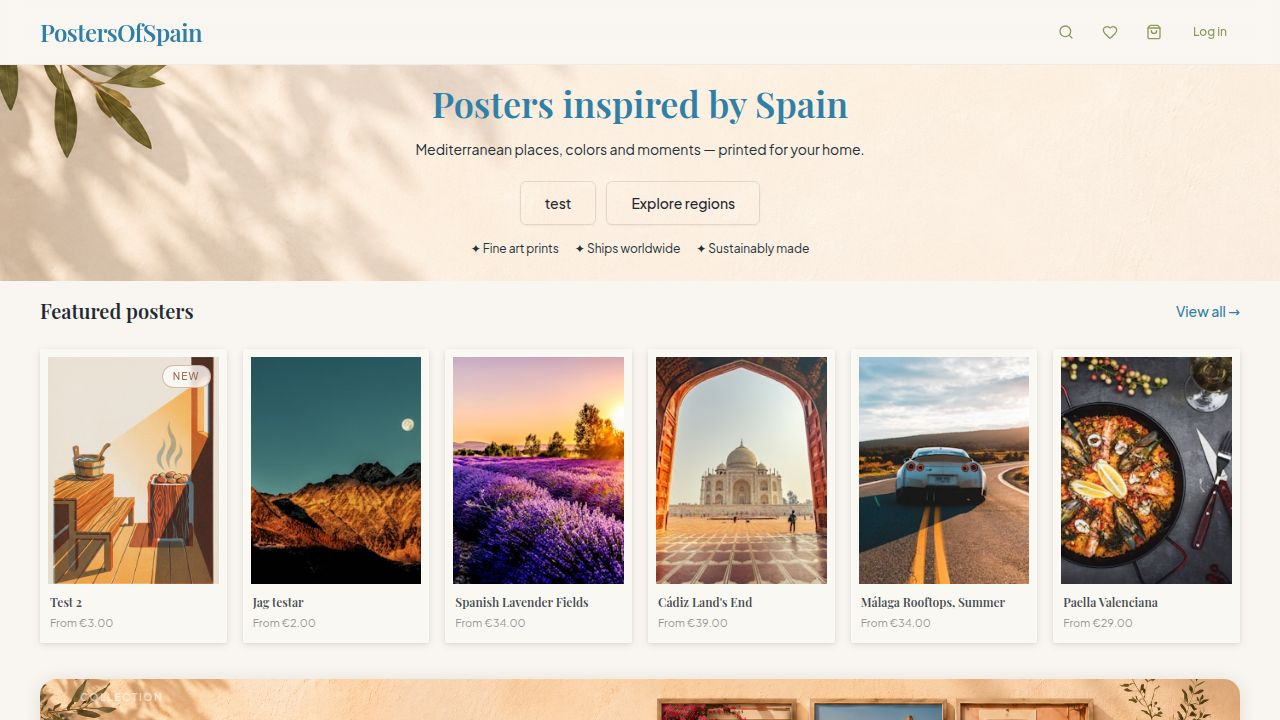
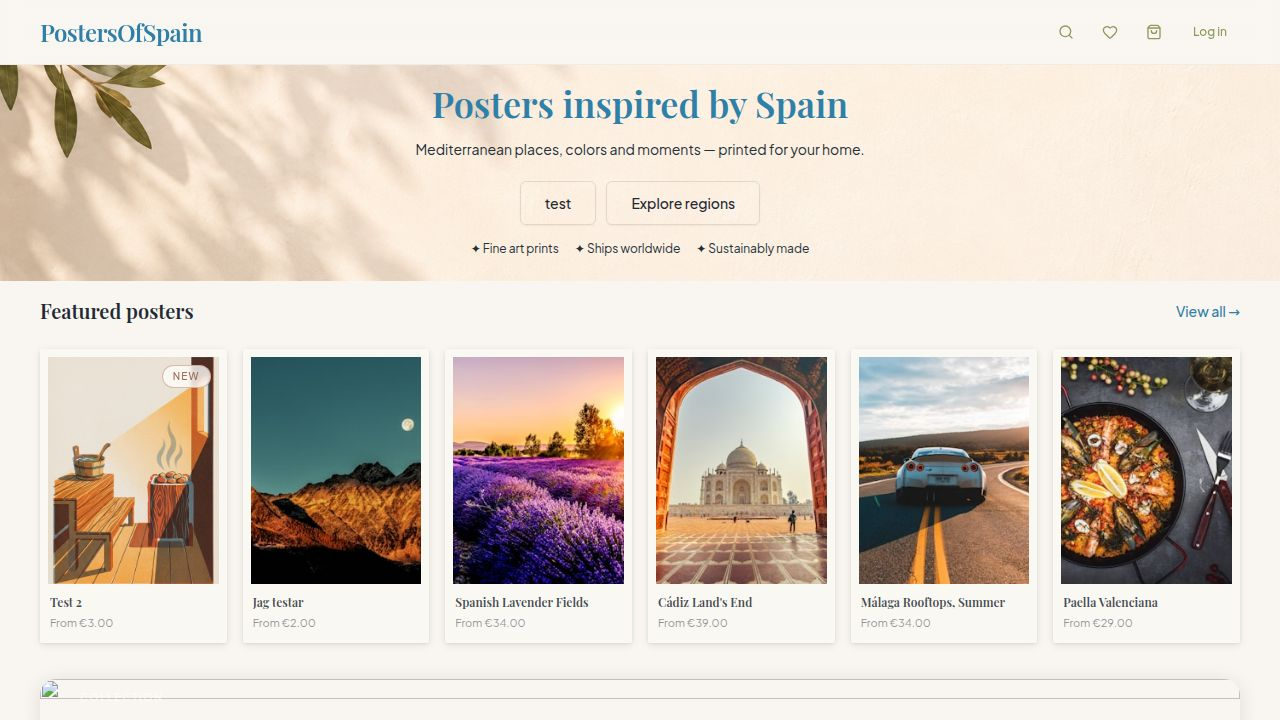
Task #17: Live homepage preview in the admin editor
## What was done
Added a "Preview" button to the AdminHomepageEditor toolbar that opens the
homepage in a new tab reflecting the current *unsaved* visual config.

## Implementation

### API Server (`artifacts/api-server/src/routes/stores.ts`)
- Added in-memory preview store (`Map<token, { config, expiresAt }>`) with
  30-minute TTL and lazy purge on each request.
- `POST /api/stores/:storeKey/homepage-visual/preview` (admin auth required):
  validates config, generates a 36-char hex token via crypto.getRandomValues,
  stores `{ ...config, _storeKey }` in memory, returns `{ token }`.
- `GET /api/stores/homepage-visual/preview/:token` (public, no auth):
  returns stored config or 404 if expired/not found.
  Placed before `:storeKey` wildcard routes to avoid param capture.

### StorefrontContext (`artifacts/poster-store/src/context/StorefrontContext.tsx`)
- On init, reads `?preview=<token>` from window.location.search.
- Fetches preview config if token is present.
- Checks `_storeKey` in the returned preview payload. If it differs from the
  URL-resolved store (e.g. admin opened root `/` for a non-default store),
  re-fetches both static and DB config for the preview's correct store key,
  ensuring the right base theme/fonts/catalog are used.
- Strips `_storeKey` metadata before assigning as homepageVisualConfig.
- Falls back silently on network errors or expired tokens.

### AdminHomepageEditor (`artifacts/poster-store/src/pages/admin/AdminHomepageEditor.tsx`)
[…]

Changed region(s): [[0.0312, 0.9167, 0.9688, 1.0]]

diff --git a/artifacts/poster-store/src/context/StorefrontContext.tsx b/artifacts/poster-store/src/context/StorefrontContext.tsx
@@ -35,6 +35,16 @@ async function fetchDbStoreConfig(storeKey: string): Promise<StorefrontConfig | 
   }
 }
 
+async function fetchPreviewVisualConfig(token: string): Promise<Record<string, unknown> | null> {
+  try {
+    const res = await fetch(`/api/stores/homepage-visual/preview/${encodeURIComponent(token)}`);
+    if (!res.ok) return null;
+    return res.json();
+  } catch {
+    return null;
+  }
+}
+
 /**
  * Resolves the active storeKey and any route prefix from the current URL.
  *
@@ -99,6 +109,9 @@ export const StorefrontProvider = ({ children }: { children: ReactNode }) => {
 
       const hostname = typeof window !== 'undefined' ? window.location.hostname : '';
       const pathname = typeof window !== 'undefined' ? window.location.pathname : '/';
+      const searchParams = typeof window !== 'undefined'
+        ? new URLSearchParams(window.location.search)
+        : new URLSearchParams();
 
       const { storeKey, routePrefix } = resolveStore(stores, hostname, pathname);
 
@@ -111,13 +124,49 @@ export const StorefrontProvider = ({ children }: { children: ReactNode }) => {
 
       const dbConfig = await fetchDbStoreConfig(storeKey);
 
+      // If a preview token is present in the URL, overlay its visual config.
+      // The token payload includes _storeKey which was set by the admin when
+      // they POSTed the preview. If it doesn't match the URL-resolved store we
+      // re-fetch the correct store's config so the preview renders on the right
+      // base theme/catalog.
+      const previewToken = searchParams.get('preview');
+      let previewVisual: Record<string, unknown> | null = null;
+      let resolvedDbConfig = dbConfig;
+      let resolvedStaticFallback = staticFallback;
+
+      if (previewToken) {
+        previewVisual = await fetchPreviewVisualConfig(previewToken);
+
+        if (previewVisual) {
+          const previewStoreKey = typeof previewVisual._storeKey === 'string'
+            ? previewVisual._storeKey
+            : null;
+
+          if (previewStoreKey && previewStoreKey !== storeKey) {
+            // The preview belongs to a different store than what the URL resolved.
+            // Load that store's config so the correct base theme/fonts are used.
+            const { storefronts: allStorefronts } = await import('../config/storefronts');
+            resolvedStaticFallback = allStorefronts[previewStoreKey] ?? resolvedStaticFallback;
+            const overrideDbConfig = await fetchDbStoreConfig(previewStoreKey);
+            resolvedDbConfig = overrideDbConfig ?? resolvedDbConfig;
+          }
+        }
+      }
+
       if (!cancelled) {
-        if (dbConfig) {
-          // Merge: static config provides defaults for fields not stored in DB (e.g. shop),
-          // DB config takes precedence for everything it provides.
-          setStoreConfig({ ...staticFallback, ...dbConfig });
+        const base: StorefrontConfig = resolvedDbConfig
+          ? { ...resolvedStaticFallback, ...resolvedDbConfig }
+          : (resolvedStaticFallback ?? staticConfig);
+
+        if (previewVisual) {
+          // Strip the internal _storeKey metadata before applying as visual config
+          const { _storeKey: _ignored, ...visualConfig } = previewVisual;
+          setStoreConfig({
+            ...base,
+            homepageVisualConfig: visualConfig as StorefrontConfig['homepageVisualConfig'],
+          });
         } else {
-          if (staticFallback) setStoreConfig(staticFallback);
+          setStoreConfig(base);
         }
         setIsLoadingFromDb(false);
       }

diff --git a/artifacts/poster-store/src/pages/admin/AdminHomepageEditor.tsx b/artifacts/poster-store/src/pages/admin/AdminHomepageEditor.tsx
@@ -548,6 +548,47 @@ export default function AdminHomepageEditor() {
   const setHero = (patch: Partial<HeroVisualConfig>) =>
     setConfig(c => ({ ...c, hero: { ...c.hero, ...patch } }));
 
+  // ── Preview ───────────────────────────────────────────────────────────────
+
+  const [previewing, setPreviewing] = useState(false);
+
+  async function handlePreview() {
+    setPreviewing(true);
+    try {
+      const toPreview: HomepageVisualConfig = {
+        ...config,
+        sections: workingSections,
+        collectionBanners: workingBanners,
+        collectionBanner: undefined,
+      };
+      const res = await fetch(`/api/stores/${encodeURIComponent(adminStoreKey)}/homepage-visual/preview`, {
+        method: "POST",
+        headers: { "Content-Type": "application/json" },
+        credentials: "include",
+        body: JSON.stringify(toPreview),
+      });
+      if (!res.ok) {
+        const body = await res.json().catch(() => ({ error: res.statusText }));
+        throw new Error(typeof body.error === "string" ? body.error : "Preview failed");
+      }
+      const { token } = await res.json() as { token: string };
+      // Navigate to the store's public root so URL-based store resolution works.
+      // If the store has a route prefix (e.g. /sweden) use that; otherwise root /.
+      const previewBase = storeData?.routePrefix
+        ? `/${storeData.routePrefix}/`
+        : "/";
+      window.open(
+        `${previewBase}?preview=${encodeURIComponent(token)}`,
+        "_blank",
+        "noopener,noreferrer"
+      );
+    } catch (e: unknown) {
+      setError((e as Error)?.message ?? "Preview failed");
+    } finally {
+      setPreviewing(false);
+    }
+  }
+
   // ── Save ─────────────────────────────────────────────────────────────────
 
   async function handleSave() {
@@ -825,11 +866,21 @@ export default function AdminHomepageEditor() {
               </div>
             )}
 
-            {/* ── Save ─────────────────────────────────────────────────── */}
+            {/* ── Save / Preview ───────────────────────────────────────── */}
             <div className="flex gap-3 pt-1">
-              <Button onClick={handleSave} disabled={saving} className="gap-1.5">
+              <Button onClick={handleSave} disabled={saving || previewing} className="gap-1.5">
                 {saving ? <Loader2 className="w-4 h-4 animate-spin" /> : <Save className="w-4 h-4" />}
                 {saving ? "Saving…" : "Save changes"}
+              </Button>
+              <Button
+                type="button"
+                variant="outline"
+                onClick={handlePreview}
+                disabled={saving || previewing}
+                className="gap-1.5"
+              >
+                {previewing ? <Loader2 className="w-4 h-4 animate-spin" /> : <ExternalLink className="w-4 h-4" />}
+                {previewing ? "Opening…" : "Preview"}
               </Button>
             </div>
           </>

diff --git a/artifacts/api-server/src/routes/stores.ts b/artifacts/api-server/src/routes/stores.ts
@@ -533,6 +533,60 @@ router.patch("/admin/stores/:storeKey/deactivate", requireAdmin, async (req, res
   return res.json(serializeStore(updated));
 });
 
+// ── In-memory homepage preview store ─────────────────────────────────────────
+
+interface PreviewEntry {
+  config: Record<string, unknown>;
+  expiresAt: number;
+}
+
+const previewStore = new Map<string, PreviewEntry>();
+const PREVIEW_TTL_MS = 30 * 60 * 1000; // 30 minutes
+
+function purgeExpiredPreviews() {
+  const now = Date.now();
+  for (const [token, entry] of previewStore) {
+    if (entry.expiresAt < now) previewStore.delete(token);
+  }
+}
+
+function generatePreviewToken(): string {
+  const arr = new Uint8Array(18);
+  crypto.getRandomValues(arr);
+  return Array.from(arr, (b) => b.toString(16).padStart(2, "0")).join("");
+}
+
+// POST /api/stores/:storeKey/homepage-visual/preview — admin only; stores config in memory, returns token
+router.post("/stores/:storeKey/homepage-visual/preview", requireAdmin, async (req, res) => {
+  const storeKey = String(req.params.storeKey);
+
+  const [store] = await db.select().from(storesTable).where(eq(storesTable.storeKey, storeKey)).limit(1);
+  if (!store) return res.status(404).json({ error: "Store not found" });
+
+  const parsed = homepageVisualConfigSchema.safeParse(req.body);
+  if (!parsed.success) return res.status(400).json({ error: parsed.error.flatten() });
+
+  purgeExpiredPreviews();
+  const token = generatePreviewToken();
+  previewStore.set(token, {
+    config: { ...(parsed.data as Record<string, unknown>), _storeKey: storeKey },
+    expiresAt: Date.now() + PREVIEW_TTL_MS,
+  });
+
+  return res.json({ token });
+});
+
+// GET /api/stores/homepage-visual/preview/:token — public; fetch a stored preview config
+// Must be placed before /api/stores/:storeKey routes to avoid capturing "homepage-visual"
+router.get("/stores/homepage-visual/preview/:token", (req, res) => {
+  purgeExpiredPreviews();
+  const entry = previewStore.get(String(req.params.token));
+  if (!entry || entry.expiresAt < Date.now()) {
+    return res.status(404).json({ error: "Preview not found or expired" });
+  }
+  return res.json(entry.config);
+});
+
 // GET /api/stores — public endpoint: returns active store configs (for store selector + resolver)
 router.get("/stores", async (_req, res) => {
   const stores = await db